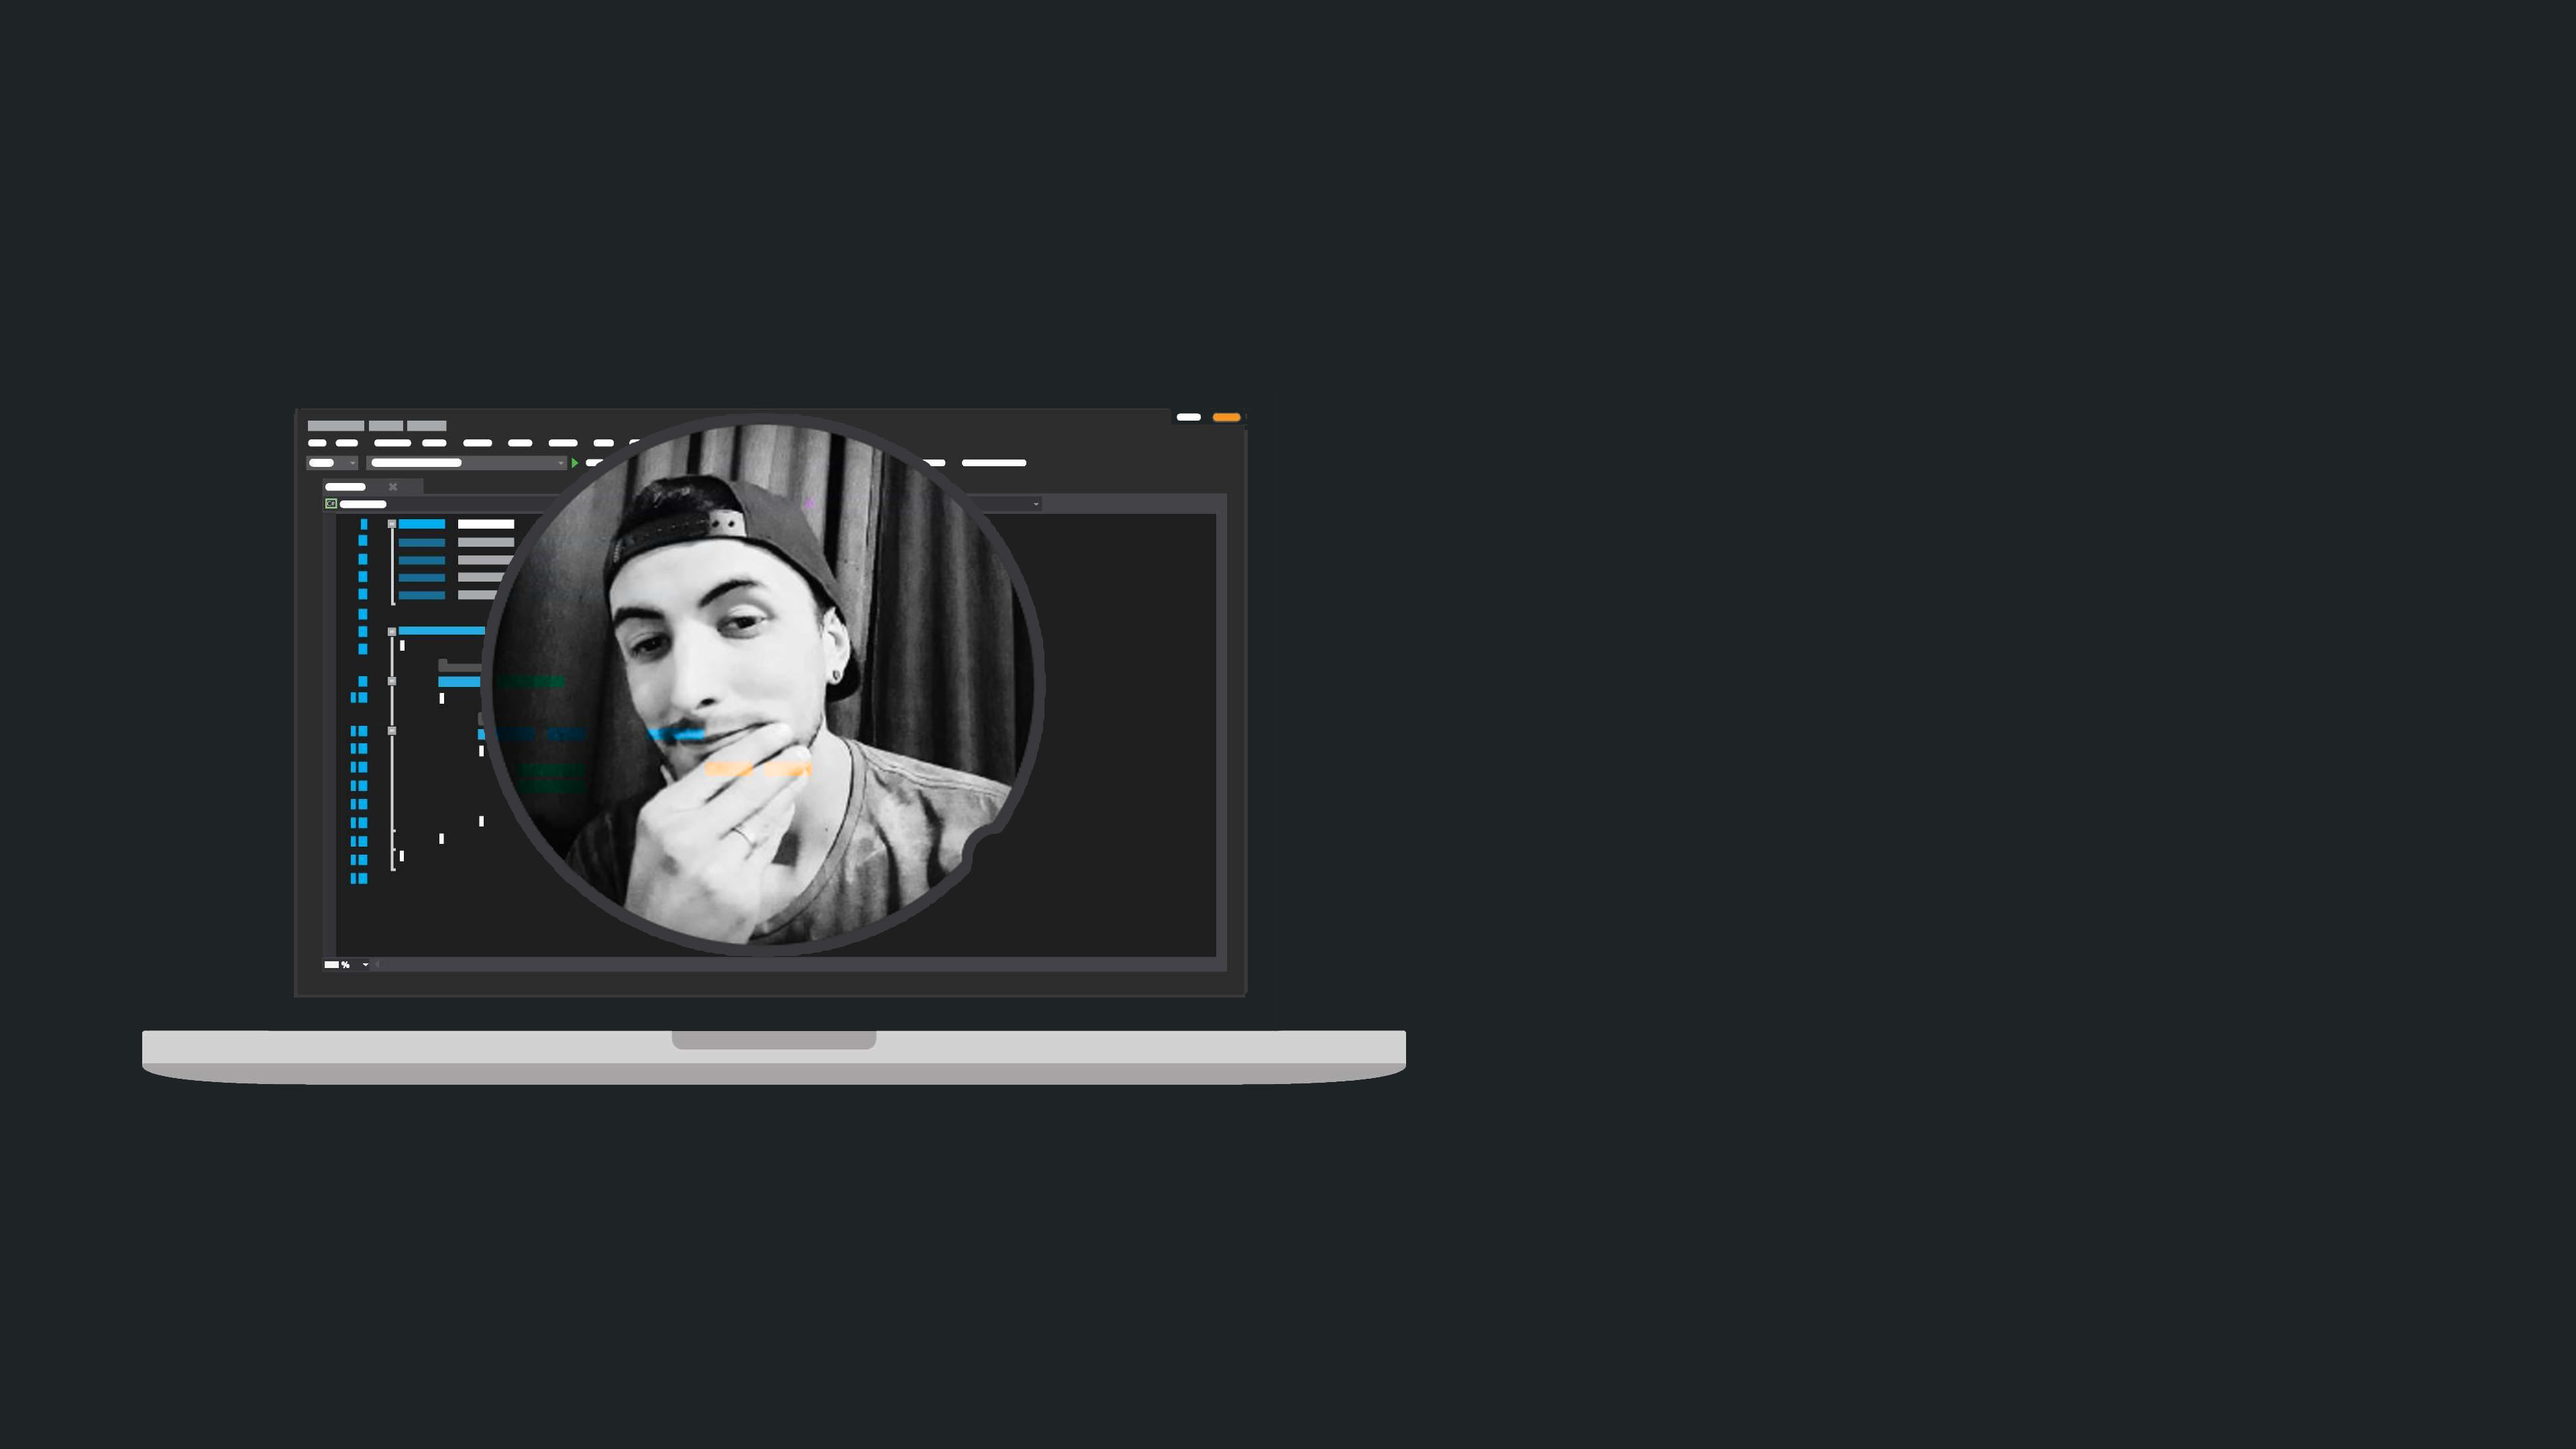
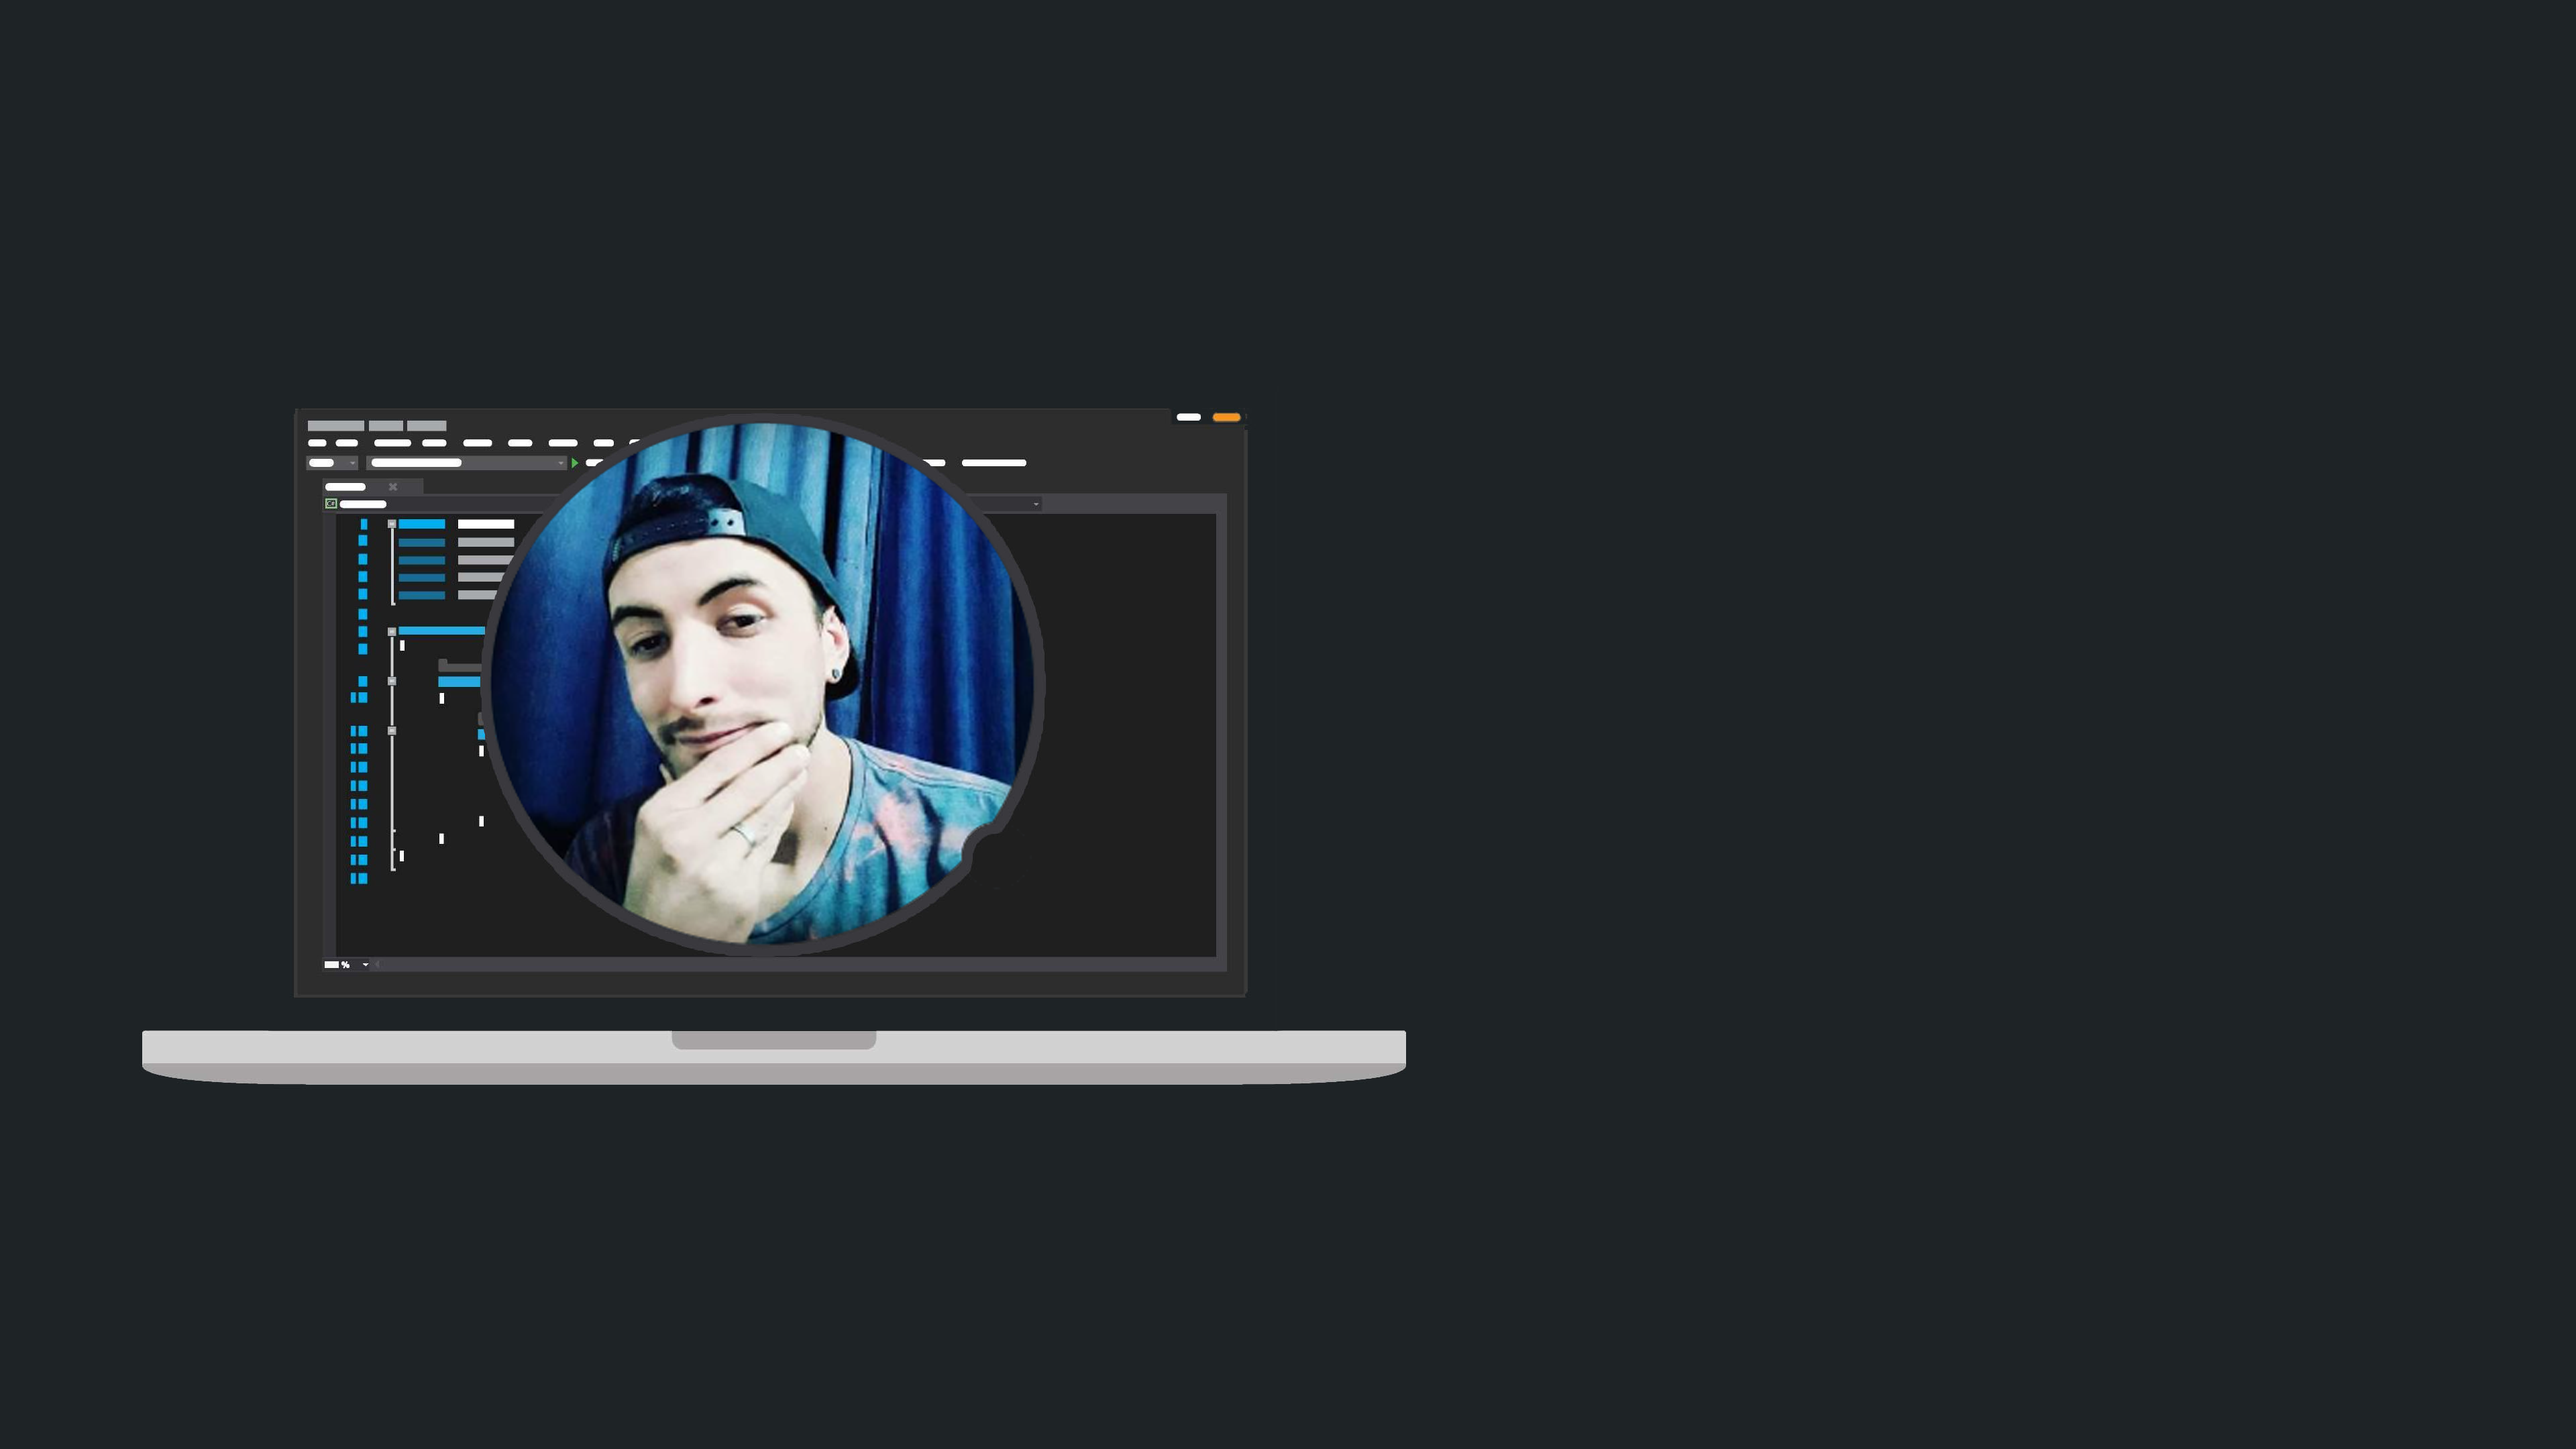
Up Change Color Theme

Changed region(s): [[0.1875, 0.2792, 0.4062, 0.6514]]

diff --git a/assets/css/main.css b/assets/css/main.css
@@ -569,12 +569,7 @@ select {
     font-size: 13pt;
   }
 }
-@media screen and (min-width: 736px) {
-  .logoHeader {
-    width: 400%;
-    margin: -15px 0 0 0px;
-  }
-}
+
 @media screen and (max-width: 736px) {
   body,
   input,
@@ -1590,8 +1585,8 @@ body.is-touch .main {
 
 @media screen and (max-width: 736px) {
   #imag {
-    width: 6%;
-    margin-top: 1%;
+    width: 100px;
+    margin-top: -16px;
   }
 
   .main > .content br {
@@ -1746,10 +1741,18 @@ body.is-touch .main {
   background-repeat: repeat, no-repeat;
 }
 
+#tituloIntro {
+  color: rgb(46, 46, 46);
+  border-style: solid;
+  border-color: #ffffff;
+  -webkit-text-stroke-width: 0.5px;
+  -webkit-text-stroke-color: white;
+}
+
 /* --- ABOUT ME --- */
 
 #aboutme {
-  background: url(""), url("../../images/one.png");
+  background: url(""), url("../../images/one.jpg");
   background-size: 256px 256px, cover;
   background-attachment: fixed, fixed;
   background-position: top right, center center;
@@ -2162,4 +2165,98 @@ footer .Up {
 
 #dev :hover {
   background-image: url(/images/dev2.ico);
+}
+
+/* ACA PRUEBA */
+
+#darkmode {
+  display: inline-block;
+  background: url(/images/dark-mode.png);
+  width: 25px;
+  height: 21px;
+  font-size: 0;
+  text-decoration: none;
+  margin-left: 10px;
+}
+body.dark {
+  background-color: #ffffff;
+}
+
+body.dark header h1 {
+  filter: invert(1);
+}
+
+body.dark #darkmode {
+  background-position: right center;
+}
+
+body.dark #aboutme p {
+  color: rgb(46, 46, 46);
+}
+body.dark #aboutme h2 {
+  color: rgb(46, 46, 46);
+}
+body.dark #aboutme .content.box.style2 {
+  background-color: #ffffff;
+}
+body.dark #tituloIntro {
+  color: #ffffff;
+}
+
+body.dark #tituloSkills {
+  color: rgb(46, 46, 46);
+}
+body.dark #subSkills {
+  color: rgb(46, 46, 46);
+}
+
+body.dark .skill {
+  color: rgb(46, 46, 46);
+}
+
+body.dark .skills {
+  background-color: #ffffff;
+}
+
+body.dark .myProjects {
+  background-color: #c7c7c7;
+}
+body.dark .contenido-seccion {
+  color: rgb(46, 46, 46);
+}
+body.dark #contact {
+  background-color: #ffffff;
+}
+body.dark #letrasContact {
+  color: rgb(46, 46, 46);
+}
+body.dark .box {
+  background-color: #c7c7c7;
+  color: rgb(46, 46, 46);
+}
+body.dark #formColor {
+  background-color: #c7c7c7;
+}
+body.dark .fields {
+  background-color: #c7c7c7;
+  color: rgb(46, 46, 46);
+}
+body.dark .field.half {
+  background-color: #c7c7c7;
+  color: rgb(46, 46, 46);
+}
+body.dark .actions.special {
+  background-color: #c7c7c7;
+  color: rgb(46, 46, 46);
+}
+
+body.dark #email::placeholder {
+  color: rgb(46, 46, 46);
+}
+
+body.dark #aboutme {
+  background: url(""), url("../../images/one2.jpg");
+  background-size: 256px 256px, cover;
+  background-attachment: fixed, fixed;
+  background-position: top right, center center;
 }

diff --git a/index.html b/index.html
@@ -18,6 +18,7 @@
       content="width=device-width, initial-scale=1, user-scalable=no"
     />
     <link rel="stylesheet" href="assets/css/main.css" />
+    <link rel="stylesheet" href="assets/css/texto.css" />
     <noscript
       ><link rel="stylesheet" href="assets/css/noscript.css"
     /></noscript>
@@ -31,7 +32,6 @@
         id="imag"
         class="logoHeader"
         src="images/logo1.png"
-        width="30%"
         alt="..."
       />
 
@@ -68,12 +68,13 @@
               <div class="flags__item" data-language="us">
                 <img src="/images/us.svg" alt="" title="In English" />
               </div>
-            </div>
-
-            <div id="toggle-colors" class="colors"></div>
+            </div>           
           </li>
+          <a id="darkmode" href="javascript:void(0)"></a>
         </ul>
       </nav>
+
+      
     </header>
 
     <!--- INTRO --->
@@ -81,7 +82,7 @@
     <section id="intro" class="main style1 dark fullscreen">
       <div class="content">
         <header>
-          <h2 data-section="intro" data-value="titulo">Hi, I'm Nico Mattos</h2>
+          <h2 id="tituloIntro" data-section="intro" data-value="titulo">Hi, I'm Nico Mattos</h2>
           <p class="inicio" data-section="intro" data-value="texto">
             And I'm..
           </p>
@@ -410,14 +411,14 @@
 
     <section id="contact" class="main style3 secondary">
       <div class="content">
-        <header>
+        <header  id="letrasContact">
           <h2 data-section="contacto" data-value="titulo">SEND ME AN EMAIL</h2>
           <p data-section="contacto" data-value="texto">
             Thanks for taking the time to reach out. How can I help you today?
           </p>
         </header>
         <div class="box">
-          <form action="https://formspree.io/f/xrgnneow" method="POST">
+          <form id="formColor" action="https://formspree.io/f/xrgnneow" method="POST">
             <div class="fields">
               <div class="field half">
                 <input
@@ -524,5 +525,6 @@ title="GitHub"
     <script src="assets/js/main.js"></script>
     <script src="assets/js/language.js"></script>
     <script src="assets/js/skills.js"></script>
+    <script src="assets/js/texto.js"></script>
   </body>
 </html>

diff --git a/assets/js/texto.js b/assets/js/texto.js
@@ -1,0 +1,34 @@
+// Palabras que deseas mostrar
+const words = [
+  "Frontend Developer",
+  "",
+  "FullStack Developer",
+  "",
+  "App Mobile Developer",
+  "",
+  "Python Developer",
+  "",
+];
+
+// Elemento donde se mostrará el texto animado
+const animatedTextElement = document.getElementById("animated-text");
+
+let wordIndex = 0; // Índice de la palabra actual
+let charIndex = 0; // Índice del carácter actual
+
+function typeWriter() {
+  if (charIndex < words[wordIndex].length) {
+    animatedTextElement.textContent += words[wordIndex].charAt(charIndex);
+    charIndex++;
+    setTimeout(typeWriter, 100); // Velocidad de escritura (ajústala según tu preferencia)
+  } else {
+    // Cambia a la siguiente palabra
+    wordIndex = (wordIndex + 1) % words.length;
+    charIndex = 0;
+    animatedTextElement.textContent = ""; // Borra el texto actual
+    setTimeout(typeWriter, 800); // Pausa antes de mostrar la siguiente palabra
+  }
+}
+
+// Inicia la animación
+typeWriter();

diff --git a/assets/js/main.js b/assets/js/main.js
@@ -184,3 +184,17 @@
       $window.trigger("resize");
     });
 })(jQuery);
+
+/* ACA PRUEBA */
+
+const btn_darkmode = document.getElementById("darkmode");
+btn_darkmode.addEventListener("click", function () {
+  /*
+    if( document.body.classList.contains('dark') ){
+        document.body.classList.remove('dark');
+    }else{
+        document.body.classList.add('dark');
+    }
+    */
+  document.body.classList.toggle("dark");
+});

diff --git a/assets/css/texto.css b/assets/css/texto.css
@@ -1,0 +1,8 @@
+.typewriter-text {
+  font-family: Arial, sans-serif;
+  font-size: 24px;
+  color: #333;
+  overflow: hidden; /* Para ocultar el texto que aún no se ha animado */
+  border-right: 0.15em solid #333; /* Efecto cursor */
+  white-space: nowrap; /* Evita que el texto se divida en varias líneas */
+}
